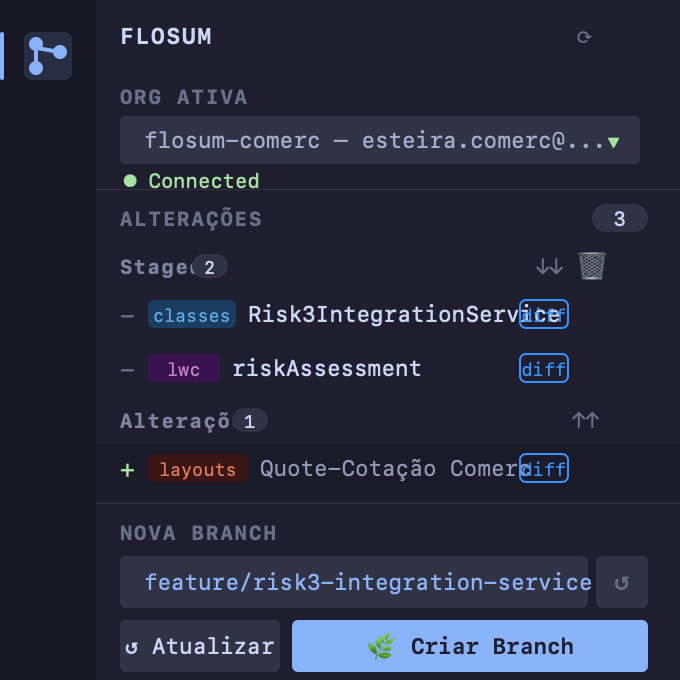
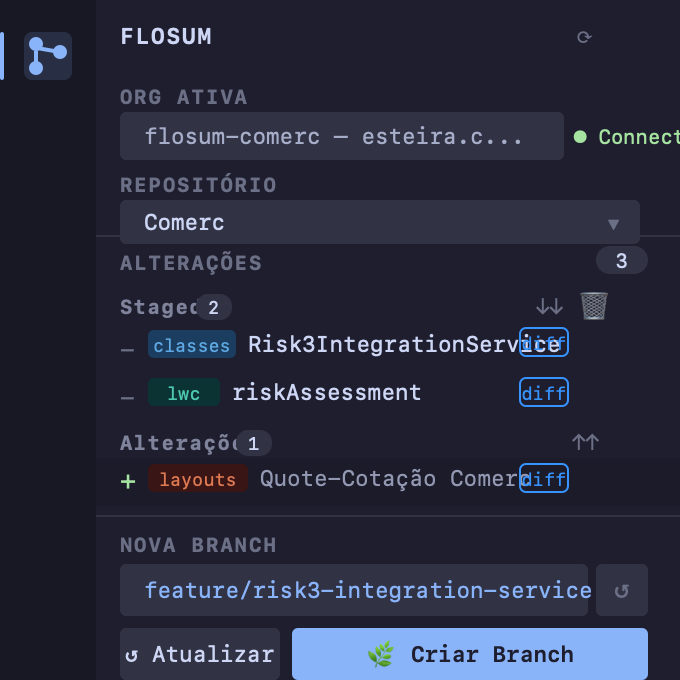
feat: remove pull btn, repo selector, collapsible log, updated README

diff --git a/webview.html b/webview.html
@@ -475,7 +475,6 @@
     <span data-i18n="flosumBranches">Branches Flosum</span>
     <div class="header-right">
       <span class="count-pill" id="branchesCount" style="display:none">—</span>
-      <button class="btn-icon" id="pullBtn" data-i18n-title="pullTitle" title="flosum devops pull">⬇ Pull</button>
       <button class="btn-icon" id="loadBranchesBtn" data-i18n-title="loadTitle" title="Carregar branches">↺</button>
     </div>
   </div>
@@ -989,7 +988,6 @@
   document.getElementById('refreshBtn').addEventListener('click', doRefresh);
   document.getElementById('createBtn').addEventListener('click', doCreate);
   document.getElementById('loadBranchesBtn').addEventListener('click', doLoadBranches);
-  document.getElementById('pullBtn').addEventListener('click', doPull);
 
   document.getElementById('regenBtn').addEventListener('click', () => {
     if (lastSuggestion) {

diff --git a/README.md b/README.md
@@ -12,10 +12,10 @@ A VS Code sidebar extension for [Flosum](https://flosum.com) DevOps — manage b
 ## Features
 
 ### Staged / Changes view
-Exactly like VS Code's Source Control — items detected from `git status` appear in **Changes**. Click `+` (or the item) to stage what you want to push. Click `−` to unstage.
+Exactly like VS Code's Source Control — items detected from `git status` appear in **Changes**. Click `+` (or the item) to stage what you want to push. Click `−` to unstage. Stage all with `↑↑`, unstage all with `↓↓`.
 
 ### Smart branch name suggestion
-The branch name is auto-generated from the Salesforce metadata you staged (`AccountTrigger` → `feature/account-trigger`). Fully editable before creating.
+The branch name is auto-generated from the staged Salesforce metadata (`AccountTrigger` → `feature/account-trigger`). Fully editable before creating.
 
 ### Selective push
 Only the staged files are pushed to Flosum — not the entire `force-app/main/default`. Uses a temporary directory behind the scenes, so your project structure stays clean.
@@ -35,8 +35,11 @@ Discard individual items or all staged files with the 🗑 button. Works correct
 ### Auto-refresh
 The sidebar updates automatically when you save a file or when files change on disk — no manual refresh needed.
 
-### Org selector
-Switch between authorized Salesforce orgs directly from the sidebar. Uses `sf config set target-org` under the hood.
+### Org + Repository selector
+Switch between authorized Salesforce orgs and Flosum repositories directly from the sidebar. Connection status is shown inline next to the org dropdown.
+
+### Collapsible log
+Click the **Log** header to collapse/expand the log panel.
 
 ### i18n
 UI automatically adapts to your VS Code language: **Portuguese (pt-BR)** or **English**.
@@ -65,7 +68,7 @@ Your project must have a `sfdx-project.json` (standard Salesforce DX structure).
 
 2. **Open the Flosum sidebar** — click the branch icon in the Activity Bar.
 
-3. **Select your org** from the dropdown at the top.
+3. **Select your org and repository** from the dropdowns at the top.
 
 ---
 
@@ -88,15 +91,6 @@ In the **Branches Flosum** section, click **↺** to load the list, then **Check
 ### Discard changes
 - Hover any item → click 🗑 to discard that item only
 - Click **🗑 Discard staged** to discard everything in Staged
-
----
-
-## Extension Settings
-
-No configuration required. The extension reads:
-- `sf config get target-org` for the active org
-- `git status` for local changes
-- `Flosum__Repository__c` SOQL for the repository name
 
 ---
 
